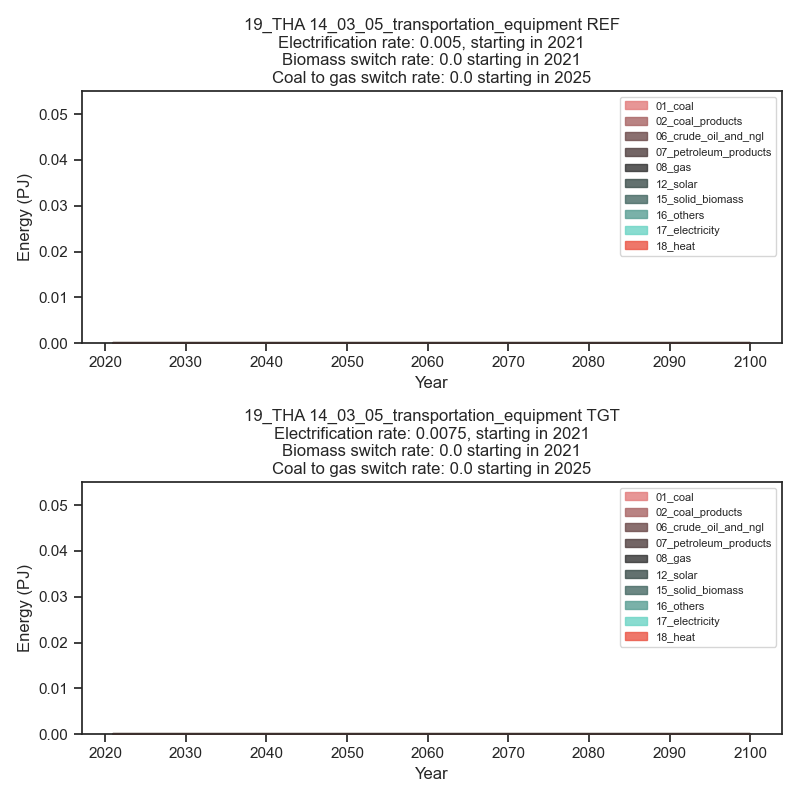
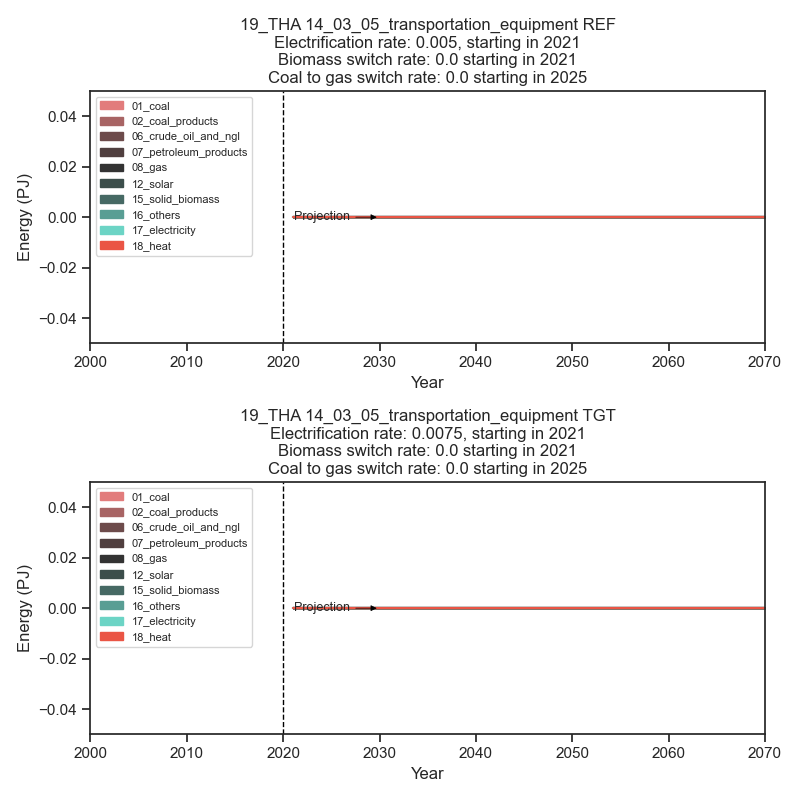
Visual_update_6Jul2023

diff --git a/workflow/scripts/f2_fuel_switch_function.py b/workflow/scripts/f2_fuel_switch_function.py
@@ -24,6 +24,9 @@ economy_select = economy_list[:-7]
 # Modelled years
 proj_years = list(range(2021, 2101, 1))
 
+# Also grab historical energy data
+hist_egeda = pd.read_csv(latest_EGEDA).loc[:, :'2020']
+
 # don't electrify
 no_elec = ['12_solar', '17_electricity', '18_heat']
 
@@ -37,6 +40,7 @@ to_gas = ['06_crude_oil_and_ngl', '07_petroleum_products', '08_gas', '12_solar',
 def fuel_switch(economy = '01_AUS',
                 sector = ind1[0],
                 base_year = 2021,
+                hist_data = hist_egeda,
                 elec_start_ref = 2021,
                 elec_rate_ref = 0.005,
                 elec_start_tgt = 2021,
@@ -296,6 +300,33 @@ def fuel_switch(economy = '01_AUS',
 
     # Organise the dataframe to be saved
     switched_ref = switched_ref[['scenarios', 'economy', 'sectors', 'sub1sectors', 'sub2sectors', 'fuels', 'subfuels', 'year', 'energy']]
+    
+    # Attach historical data
+    if sector in [ind1[0], ind1[1]]:
+        hist_ref = hist_data[(hist_data['economy'] == economy) &
+                              (hist_data['sub1sectors'] == sector) &
+                              (hist_data['sub2sectors'] == 'x') &
+                              (hist_data['sub3sectors'] == 'x') &
+                              (hist_data['sub4sectors'] == 'x') & 
+                              (hist_data['fuels'].isin(data_ref['fuels'].unique())) &
+                              (hist_data['subfuels'] == 'x')]
+        
+    else:
+        hist_ref = hist_data[(hist_data['economy'] == economy) &
+                              (hist_data['sub1sectors'] == '14_03_manufacturing') &
+                              (hist_data['sub2sectors'] == sector) &
+                              (hist_data['sub3sectors'] == 'x') &
+                              (hist_data['sub4sectors'] == 'x') & 
+                              (hist_data['fuels'].isin(data_ref['fuels'].unique())) &
+                              (hist_data['subfuels'] == 'x')]
+        
+    hist_ref = hist_ref.melt(id_vars = hist_ref.columns[:9]).\
+        rename(columns = {'variable': 'year',
+                          'value': 'energy'}).\
+                            drop(labels = ['sub3sectors', 'sub4sectors'], axis = 1)
+    
+    switched_ref = pd.concat([hist_ref, switched_ref]).copy().reset_index(drop = True)
+    switched_ref['year'] = switched_ref['year'].astype(str).astype(int)
 
     switched_ref.to_csv(save_location + economy + '_' + sector + '_switched_ref.csv', index = False)
 
@@ -322,16 +353,51 @@ def fuel_switch(economy = '01_AUS',
     # Organise the dataframe to be saved
     switched_tgt = switched_tgt[['scenarios', 'economy', 'sectors', 'sub1sectors', 'sub2sectors', 'fuels', 'subfuels', 'year', 'energy']]
 
+    # Attach historical data
+    if sector in [ind1[0], ind1[1]]:
+        hist_tgt = hist_data[(hist_data['economy'] == economy) &
+                              (hist_data['sub1sectors'] == sector) &
+                              (hist_data['sub2sectors'] == 'x') &
+                              (hist_data['sub3sectors'] == 'x') &
+                              (hist_data['sub4sectors'] == 'x') & 
+                              (hist_data['fuels'].isin(data_tgt['fuels'].unique())) &
+                              (hist_data['subfuels'] == 'x')]
+        
+    else:
+        hist_tgt = hist_data[(hist_data['economy'] == economy) &
+                              (hist_data['sub1sectors'] == '14_03_manufacturing') &
+                              (hist_data['sub2sectors'] == sector) &
+                              (hist_data['sub3sectors'] == 'x') &
+                              (hist_data['sub4sectors'] == 'x') & 
+                              (hist_data['fuels'].isin(data_tgt['fuels'].unique())) &
+                              (hist_data['subfuels'] == 'x')]
+        
+    hist_tgt = hist_tgt.melt(id_vars = hist_tgt.columns[:9]).\
+        rename(columns = {'variable': 'year',
+                          'value': 'energy'}).\
+                            drop(labels = ['sub3sectors', 'sub4sectors'], axis = 1)
+    
+    hist_tgt['scenarios'] = 'target'
+
+    switched_tgt = pd.concat([hist_tgt, switched_tgt]).copy().reset_index(drop = True)
+    switched_tgt['year'] = switched_tgt['year'].astype(str).astype(int)
+
     switched_tgt.to_csv(save_location + economy + '_' + sector + '_switched_tgt.csv', index = False)
     
     ##############################################################################################################################
     # Create some charts
     # Pivot the DataFrame
-    chart_df_ref = switched_ref[switched_ref['energy'] != 0]
+    chart_df_ref = switched_ref[(switched_ref['energy'] != 0) &
+                                (switched_ref['year'] <= 2070)]
     chart_pivot_ref = chart_df_ref.pivot(index = 'year', columns = 'fuels', values = 'energy')
     
-    chart_df_tgt = switched_tgt[switched_tgt['energy'] != 0]
+    chart_df_tgt = switched_tgt[(switched_tgt['energy'] != 0) &
+                                (switched_tgt['year'] <= 2070)]
     chart_pivot_tgt = chart_df_tgt.pivot(index = 'year', columns = 'fuels', values = 'energy')
+
+    # Define locations for chart index and custom labels
+    max_y = 1.1 * max(chart_df_ref.groupby('year')['energy'].sum().max(), chart_df_tgt.groupby('year')['energy'].sum().max())
+    proj_location = 0.925 * max_y
 
     fig, (ax1, ax2) = plt.subplots(2, 1, figsize = (8, 8))
 
@@ -339,12 +405,12 @@ def fuel_switch(economy = '01_AUS',
 
     chart_pivot_ref.plot.area(ax = ax1,
                                 stacked = True,
-                                alpha = 0.8,
+                                #alpha = 0.8,
                                 color = fuel_palette1)
     
     chart_pivot_tgt.plot.area(ax = ax2,
                                 stacked = True,
-                                alpha = 0.8,
+                                #alpha = 0.8,
                                 color = fuel_palette1)
     
     ax1.set(title = economy + ' ' + sector + ' REF\n' + 'Electrification rate: ' + str(elec_rate_ref) + \
@@ -352,19 +418,48 @@ def fuel_switch(economy = '01_AUS',
                 ' starting in ' + str(bio_start_ref) + '\nCoal to gas switch rate: ' + str(c2g_rate_ref) + \
                     ' starting in ' + str(c2g_start_ref),
             xlabel = 'Year',
-            ylabel = 'Energy (PJ)')
+            ylabel = 'Energy (PJ)',
+            xlim = (2000, 2070),
+            ylim = (0, max_y))
     
     ax2.set(title = economy + ' ' + sector + ' TGT\n' + 'Electrification rate: ' + str(elec_rate_tgt) + \
             ', starting in ' + str(elec_start_tgt) + '\nBiomass switch rate: ' + str(bio_rate_tgt) + \
                 ' starting in ' + str(bio_start_tgt) + '\nCoal to gas switch rate: ' + str(c2g_rate_tgt) + \
                     ' starting in ' + str(c2g_start_tgt),
             xlabel = 'Year',
-            ylabel = 'Energy (PJ)')
+            ylabel = 'Energy (PJ)',
+            xlim = (2000, 2070),
+            ylim = (0, max_y))
+    
+    # Projection demarcation
+    ax1.axvline(x = 2020, linewidth = 1, linestyle = '--', color = 'black')
+    ax2.axvline(x = 2020, linewidth = 1, linestyle = '--', color = 'black')
+    
+    # Projection text
+    ax1.annotate('Projection', 
+                 xy = (2030, proj_location),
+                 xytext = (2024, proj_location),
+                 va = 'center',
+                 ha = 'center',
+                 fontsize = 9,
+                 arrowprops = {'arrowstyle': '-|>',
+                               'lw': 0.5,
+                               'ls': '-',
+                               'color': 'black'})
+    
+    ax2.annotate('Projection', 
+                 xy = (2030, proj_location),
+                 xytext = (2024, proj_location),
+                 va = 'center',
+                 ha = 'center',
+                 fontsize = 9,
+                 arrowprops = {'arrowstyle': '-|>',
+                               'lw': 0.5,
+                               'ls': '-',
+                               'color': 'black'})
     
     ax1.legend(title = '', fontsize = 8)
     ax2.legend(title = '', fontsize = 8)
-
-    ax2.set_ylim(ax1.get_ylim())
             
     plt.tight_layout()
     plt.savefig(save_location + economy + '_' + sector + '_elec.png')

diff --git a/workflow/scripts/f3_run_fuel_switch_projection.py b/workflow/scripts/f3_run_fuel_switch_projection.py
@@ -25,6 +25,9 @@ economy_select = economy_list[:-7]
 # Modelled years
 proj_years = list(range(2021, 2101, 1))
 
+# Historical energy data
+hist_egeda = pd.read_csv(latest_EGEDA).loc[:, :'2020']
+
 # Vectors for switching
 # don't electrify
 no_elec = ['12_solar', '17_electricity', '18_heat']
@@ -79,18 +82,103 @@ fuel_switch(economy = '19_THA', sector = ind2[10])
 #################################################################################################
 
 # Now read in all data for each economy
-for economy in economy_select:
-    save_location = './results/industry/3_fuel_switch/{}/'.format(economy)
+for economy in [list(economy_select)[-3]]:
+    data_location = './results/industry/3_fuel_switch/{}/'.format(economy)
 
-    if not os.path.isdir(save_location):
-        os.makedirs(save_location)
+    if not os.path.isdir(data_location):
+        os.makedirs(data_location)
+
+    all_sector_save = './results/industry/3_fuel_switch/{}/all_sectors/'.format(economy)
+
+    if not os.path.isdir(all_sector_save):
+        os.makedirs(all_sector_save)
 
     economy_df = pd.DataFrame()
 
-    economy_files = glob.glob(save_location + '*.csv')
+    economy_files = glob.glob(data_location + '*.csv')
 
     for i in economy_files:
         temp_df = pd.read_csv(i)
         economy_df = pd.concat([economy_df, temp_df]).copy().reset_index(drop = True)
 
-    economy_df.to_csv(save_location + '{}_all_subsectors.csv'.format(economy), index = False)
+    economy_df.to_csv(all_sector_save + '{}_all_subsectors.csv'.format(economy), index = False)
+    
+    # Create some charts
+    # Pivot the DataFrame
+    chart_df_ref = economy_df[(economy_df['energy'] != 0) & 
+                              (economy_df['scenarios'] == 'reference') &
+                              (economy_df['year'] <= 2070)].groupby(['fuels', 'year'])['energy'].sum().reset_index()
+    
+    chart_pivot_ref = chart_df_ref.pivot(index = 'year', columns = 'fuels', values = 'energy')
+    
+    chart_df_tgt = economy_df[(economy_df['energy'] != 0) & 
+                              (economy_df['scenarios'] == 'target') &
+                              (economy_df['year'] <= 2070)].groupby(['fuels', 'year'])['energy'].sum().reset_index()
+    
+    chart_pivot_tgt = chart_df_tgt.pivot(index = 'year', columns = 'fuels', values = 'energy')
+
+    max_y = 1.1 * max(chart_df_ref.groupby('year')['energy'].sum().max(), chart_df_tgt.groupby('year')['energy'].sum().max())
+    proj_location = 0.925 * max_y
+
+    fig, (ax1, ax2) = plt.subplots(2, 1, figsize = (8, 8))
+
+    sns.set_theme(style = 'ticks')
+
+    chart_pivot_ref.plot.area(ax = ax1,
+                                stacked = True,
+                                #alpha = 0.8,
+                                color = fuel_palette1)
+    
+    chart_pivot_tgt.plot.area(ax = ax2,
+                                stacked = True,
+                                #alpha = 0.8,
+                                color = fuel_palette1)
+    
+    ax1.set(title = economy + ' all industry REF',
+            xlabel = 'Year',
+            ylabel = 'Energy (PJ)',
+            xlim = (2000, 2070),
+            ylim = (0, max_y))
+    
+    ax2.set(title = economy + ' all industry TGT',
+            xlabel = 'Year',
+            ylabel = 'Energy (PJ)',
+            xlim = (2000, 2070),
+            ylim = (0, max_y))
+    
+    # Projection demarcation
+    ax1.axvline(x = 2020, linewidth = 1, linestyle = '--', color = 'black')
+    ax2.axvline(x = 2020, linewidth = 1, linestyle = '--', color = 'black')
+
+    # Projection text
+    ax1.annotate('Projection', 
+                 xy = (2030, proj_location),
+                 xytext = (2024, proj_location),
+                 va = 'center',
+                 ha = 'center',
+                 fontsize = 9,
+                 arrowprops = {'arrowstyle': '-|>',
+                               'lw': 0.5,
+                               'ls': '-',
+                               'color': 'black'})
+    
+    ax2.annotate('Projection', 
+                 xy = (2030, proj_location),
+                 xytext = (2024, proj_location),
+                 va = 'center',
+                 ha = 'center',
+                 fontsize = 9,
+                 arrowprops = {'arrowstyle': '-|>',
+                               'lw': 0.5,
+                               'ls': '-',
+                               'color': 'black'})
+    
+    ax1.legend(title = '', fontsize = 7)
+    ax2.legend(title = '', fontsize = 7)
+
+    #ax2.set_ylim(ax1.get_ylim())
+            
+    plt.tight_layout()
+    plt.savefig(all_sector_save + economy + '_industry.png')
+    plt.show()
+    plt.close()

diff --git a/workflow/scripts/e3_subsector_energy_intensity.py b/workflow/scripts/e3_subsector_energy_intensity.py
@@ -29,39 +29,39 @@ ind2 = list(industry_sectors.values())[3:]
 # Thailand
 # Mining
 energy_use(economy = '19_THA', sub1sectors = ind1[0], sub2sectors = 'x',
-           increment_ref = 0.01, increment_tgt = 0.015, end_year = 2100)
+           increment_ref = 0.005, increment_tgt = 0.01, end_year = 2100)
 
 # Construction
 energy_use(economy = '19_THA', sub1sectors = ind1[1], sub2sectors = 'x',
-           increment_ref = 0.01, increment_tgt = 0.015, end_year = 2100)
+           increment_ref = 0.005, increment_tgt = 0.01, end_year = 2100)
 
 # Steel
 energy_use(economy = '19_THA', sub1sectors = ind1[2], sub2sectors = ind2[0],
-           increment_ref = 0.005, increment_tgt = 0.01, end_year = 2100)
+           increment_ref = 0.001, increment_tgt = 0.002, end_year = 2100)
 
 # Chemicals
 energy_use(economy = '19_THA', sub1sectors = ind1[2], sub2sectors = ind2[1],
-           increment_ref = 0.01, increment_tgt = 0.015, end_year = 2100)
+           increment_ref = 0.005, increment_tgt = 0.01, end_year = 2100)
 
 # Non-ferrous metals
 energy_use(economy = '19_THA', sub1sectors = ind1[2], sub2sectors = ind2[2],
-           increment_ref = 0.01, increment_tgt = 0.015, end_year = 2100)
+           increment_ref = 0.005, increment_tgt = 0.01, end_year = 2100)
 
 # Non-metallic mineral products
 energy_use(economy = '19_THA', sub1sectors = ind1[2], sub2sectors = ind2[3],
-           increment_ref = 0.005, increment_tgt = 0.01, end_year = 2100)
+           increment_ref = 0.001, increment_tgt = 0.003, end_year = 2100)
 
 # Transportation equipment
 energy_use(economy = '19_THA', sub1sectors = ind1[2], sub2sectors = ind2[4],
-           increment_ref = 0.01, increment_tgt = 0.015, end_year = 2100)
+           increment_ref = 0.005, increment_tgt = 0.01, end_year = 2100)
 
 # Machinery
 energy_use(economy = '19_THA', sub1sectors = ind1[2], sub2sectors = ind2[5],
-           increment_ref = 0.01, increment_tgt = 0.015, end_year = 2100)
+           increment_ref = 0.005, increment_tgt = 0.01, end_year = 2100)
 
 # Food and beverage
 energy_use(economy = '19_THA', sub1sectors = ind1[2], sub2sectors = ind2[6],
-           increment_ref = 0.01, increment_tgt = 0.015, end_year = 2100)
+           increment_ref = 0.005, increment_tgt = 0.01, end_year = 2100)
 
 # Pulp and paper
 energy_use(economy = '19_THA', sub1sectors = ind1[2], sub2sectors = ind2[7],
@@ -69,15 +69,15 @@ energy_use(economy = '19_THA', sub1sectors = ind1[2], sub2sectors = ind2[7],
 
 # Wood and wood products
 energy_use(economy = '19_THA', sub1sectors = ind1[2], sub2sectors = ind2[8],
-           increment_ref = 0.01, increment_tgt = 0.015, end_year = 2100)
+           increment_ref = 0.005, increment_tgt = 0.01, end_year = 2100)
 
 # Textiles
 energy_use(economy = '19_THA', sub1sectors = ind1[2], sub2sectors = ind2[9],
-           increment_ref = 0.01, increment_tgt = 0.015, end_year = 2100)
+           increment_ref = 0.005, increment_tgt = 0.01, end_year = 2100)
 
 # Non-specified
 energy_use(economy = '19_THA', sub1sectors = ind1[2], sub2sectors = ind2[10],
-           increment_ref = 0.01, increment_tgt = 0.015, end_year = 2100)
+           increment_ref = 0.005, increment_tgt = 0.01, end_year = 2100)
 
 # Save all data in one csv
 # Now package up all the results and save in one combined data frame
